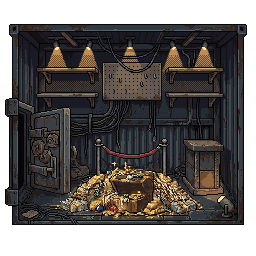
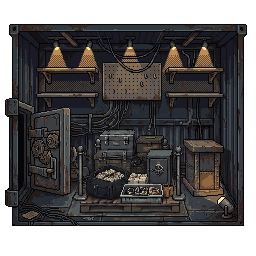
Deichselkästen raus (Inhalt in die Kiste), Schatzkammer als Plünderer-Lager statt Goldhaufen
Claude-Session: https://claude.ai/code/session_01DEYRZvtj1NpTzQf9JS3dST

diff --git a/game/save.js b/game/save.js
@@ -193,13 +193,31 @@ function refit(D, s) {
     const g = grids[old];
     delete grids[old];
     if (!g?.items?.length) continue;
-    let rest = g.items.map(e => ({ ...e }));
-    for (const key of ['chest', 'rig:0']) if (grids[key]) rest = rest.map(e => ({ ...e, n: add(D, grids[key], e.a, e.id, e.n) })).filter(e => e.n > 0);
-    if (rest.length) {
-      const pile = { x: null, feet: null, grid: newGrid(Math.max(4, g.w), Math.max(3, g.h)) };
-      for (const e of rest) add(D, pile.grid, e.a, e.id, e.n);
-      ((s.ground ??= {})[s.location] ??= []).push(pile);
-    }
+    rehome(D, s, g);
+  }
+}
+// the contents of a grid that is gone: into the chest, the Kofferraum, and what is left lies as a bundle next to the van
+function rehome(D, s, g) {
+  const grids = s.inv?.grids || {};
+  let rest = g.items.map(e => ({ ...e }));
+  for (const key of ['chest', 'rig:0']) if (grids[key]) rest = rest.map(e => ({ ...e, n: add(D, grids[key], e.a, e.id, e.n) })).filter(e => e.n > 0);
+  if (rest.length) {
+    const pile = { x: null, feet: null, grid: newGrid(Math.max(4, g.w), Math.max(3, g.h)) };
+    for (const e of rest) add(D, pile.grid, e.a, e.id, e.n);
+    ((s.ground ??= {})[s.location] ??= []).push(pile);
+  }
+}
+// Deichselkästen und Staufächer are gone (Daniel, 12.11.2026, design.md › Ausbaustufe Progression): only the tractor keeps its own storage;
+// what an older savegame kept in a trailer's box moves into the chest (then the Kofferraum, then a bundle by the van)
+function dropStorage(D, s) {
+  const grids = s.inv?.grids || {};
+  for (const key of Object.keys(grids)) {
+    const m = /^rig:(\d+)$/.exec(key);
+    if (!m) continue;
+    const u = s.rig.units[Number(m[1])];
+    if (u?.kind === 'tractor' || (u && D.containers?.[u.id]?.storage)) continue;
+    const g = grids[key]; delete grids[key];
+    if (g?.items?.length) rehome(D, s, g);
   }
 }
 
@@ -212,6 +230,7 @@ export function repairSave(save, D) {
   s.rig.units = s.rig.units.filter(u => u.kind === 'tractor' || D.containers?.[u.id]);
   for (const u of s.rig.units) u.workshops = (u.workshops || []).filter(w => D.workshops?.[w.id]);
   refit(D, s);
+  dropStorage(D, s);
   // stacks stay whole: a level is at most one above the unit before it, nothing stands on the tractor
   s.rig.units.forEach((u, i) => { const prev = s.rig.units[i - 1]; if (!u.level) { delete u.slot; return; } const max = !prev || prev.kind === 'tractor' ? 0 : (prev.level || 0) + 1; if (u.level > max) u.level = max; if (!u.level) { delete u.level; delete u.slot; } });   // a slot only counts on a stack
   const sp = s.rig.spare || {};

diff --git a/test/save.test.js b/test/save.test.js
@@ -77,3 +77,17 @@ test('Nachreichen mit „Platz machen“ (Daniel, 12.11.2026): das Sturmgewehr k
   repairSave(t, D);
   assert.ok(!t.inv.grids.backpack.items.some(e => e.id === 'sturmgewehr'), 'wer es schon trägt, bekommt kein zweites');
 });
+
+test('Deichselkästen sind weg: alter Inhalt wandert in die Kiste, das Raster verschwindet', async () => {
+  const { loadProject } = await import('../engine/project.js');
+  const { nodeLoader } = await import('../tools/loader.js');
+  const { newSave, repairSave } = await import('../game/save.js');
+  const D = (await loadProject(nodeLoader('projects/nomadgirl'))).data;
+  const s = newSave(D);
+  s.inv.grids.chest.items = [];
+  s.inv.grids['rig:1'] = { w: 3, h: 2, items: [{ a: 'items', id: 'schrott', n: 2, x: 0, y: 0, r: 0 }] };
+  const r = repairSave(JSON.parse(JSON.stringify(s)), D);
+  assert.equal(r.inv.grids['rig:1'], undefined);
+  assert.ok(r.inv.grids.chest.items.some(e => e.id === 'schrott' && e.n === 2));
+  assert.ok(r.inv.grids['rig:0'], 'Kofferraum bleibt');
+});

diff --git a/test/stack.test.js b/test/stack.test.js
@@ -7,7 +7,9 @@ import { loadProject } from '../engine/project.js';
 import { nodeLoader } from '../tools/loader.js';
 import { classicRig } from './fixture.js';
 
-const D = classicRig((await loadProject(nodeLoader('projects/nomadgirl'))).data);   // fixed setup (fixture.js)
+const D0 = classicRig((await loadProject(nodeLoader('projects/nomadgirl'))).data);   // fixed setup (fixture.js)
+// the trailers lost their own storage (12.11.2026); the code still carries one along, so the test gives the 20 Fuß one back
+const D = { ...D0, containers: { ...D0.containers, container_20: { ...D0.containers.container_20, storage: [4, 2] } } };
 const fresh = () => { const s = newSave(D); s.deltas = 9000; return s; };
 const ids = s => s.rig.units.map(u => u.id + (u.level ? '^' + u.level : '')).join(' ');
 

diff --git a/CLAUDE.md b/CLAUDE.md
@@ -42,7 +42,7 @@ node tools/bench_test.mjs [--shots]       # Werkstatt-Bilder: Start-Rig mit 2 An
 node tools/poi_test.mjs [--shots]         # POI-Level Tankstelle KM7 (fester Seed 7): Räume verschweißt, Lager als Abzweig, Tür nur von innen, Kiste, brüchige Wand = Secret, Leiter ins Lager, Tresor + Ranking, Uhr steht, Abkürzung durch den Tunnel, Schalter öffnet die Tür, Bonus am Van, getarnte brüchige Wand, Scheinwand, Nebel (29 Prüfungen)
 node tools/poi_levels_test.mjs [--shots]   # Großmarkt, Bunker 13, Ministerium: laden ohne Fehler, Kisten/Geheimnisse/Abkürzung, Kachel-Set + Stimmung je Raum, Kleinvieh (9 Prüfungen)
 node tools/light_test.mjs [--shots]       # Licht & Atmosphäre in Tankstelle KM7 (Seed 7): Stimmung je Raum (draußen hell, Laden Neon, Lager duster, Tunnel blau), Lampen + * im Layout, leuchtender Clutter, Scheinwerfer der Drohne nur mit Teil, Staub und Nebel, aus/an, Camp ohne (16 Prüfungen), Bilder an/aus nach output/light_*.png
-node tools/treasury_test.mjs [--shots]   # Schatzkammer + Gästekoje: Haufen nur Wertsachen und wächst, 4 Ständer als eigene Inventare (nur Trophäen, große Dinge nur auf großen Ständern), Trophäen an der Wand, Gast ohne Bett wartet und steigt wieder ein (8 Prüfungen), Bild nach output/treasury.png
+node tools/treasury_test.mjs [--shots]   # Schatzkammer + Gästekoje: Plünderer-Palette nur Wertsachen und wächst, 4 Ständer als eigene Inventare (nur Trophäen, große Dinge nur auf großen Ständern), Trophäen an der Wand, Gast ohne Bett wartet und steigt wieder ein (8 Prüfungen), Bild nach output/treasury.png
 node tools/pad_test.mjs [--shots]         # Controller mit falschem Gamepad (navigator.getGamepads): Steuerung beim Start versteckt, Start öffnet das Menü, Steuerung zeigt Belegung, A schließt sie, Stick rennt/geht, A springt, Y = E mit Symbol im Hinweis, Menü mit Steuerkreuz/A/B, PlayStation-Symbole, Xbox-, PlayStation-, Stadia- und Switch-Symbole in Hilfe, Hinweis und Menü-Fußzeile, Inventar mit Cursor (nehmen, bewegen, ablegen, Slots, schließen), Tastatur geht weiter und zeigt wieder E, Lücken zu: Y halten wirft weg, Rahmen in der Form des Dings, Select halten = Rig bauen mit Cursor (A packen, B zurück, LB/RB nächstes Teil, Y Händler, Select Rig offen/zu), Neues Spiel im Spiel-Menü, rechter Stick zieht AvA am Gummiband, auf ihr schweben, am Greifarm mitfliegen, Teile = mehr Akku (39 Prüfungen)
 node tools/container_test.mjs [--shots]   # Hochseecontainer: drei Längen ×4, zu aus der Ferne, auf in der Nähe, Knopf „Rig offen“ in der Bau-Leiste, Bau-Modus offen, E-Punkt und Arbeitsmodus nur auf dem Containerboden (17 Prüfungen)
 node tools/parcours_test.mjs [--shots]     # Parkour im Testraum Station für Station (49 Prüfungen, inkl. Van, Leiter rutschen, Yoga, Kanten, AvA als Plattform (stehen, Akku leer, hochklettern, obere Hälfte = drauf, Greifarm, einarmig), Hängen ↓ = einarmig, nochmal ↓ = los, Kante ohne Richtung, ↓ greift nie, Kante im Schwung, Landung, Waffe und Bremsen), Bilder nach output/parcours_*.png
@@ -256,6 +256,7 @@ Cloudflare Worker `nomadgirl` (Workers Builds, mit GitHub verbunden): baut bei j
 
 ## Stand
 
+- 12.11.2026 abends: **Deichselkästen und Staufächer raus** (nur der Kofferraum bleibt, alter Inhalt wandert beim Laden in die Kiste, `dropStorage`), **Schatzkammer ohne Drachenhort**: Plünderer-Lager auf einer Palette (Stahlkassetten, Tasche voller Scheine, Bodentresor; PixelLab), alte Fassung `ws_treasury_v1`.
 - 12.11.2026 abends: **Durchgang / Traum**: AvA tot → Leyla wacht am Feuer auf, Techtree bleibt; Neues Spiel = neuer Durchgang oder ausdrücklich alles zurücksetzen; `techtree_test` 10.
 - 12.11.2026 abends: **Techtree** im Warroom (Graveyard-Keeper-Look, Tabs Technik/Wissen/Bio, Tank-Ast mit 6 Knoten + Heilmittel, Bilder und Symbole von PixelLab); `techtree_test` 8, `npm test` 82.
 - 12.11.2026 abends: **k.o. neu**: zurück an den Run-Start, Tank zahlt, Rucksack liegt (eine Chance), letzte Rettung tötet AvA; `tank_test` 12.
